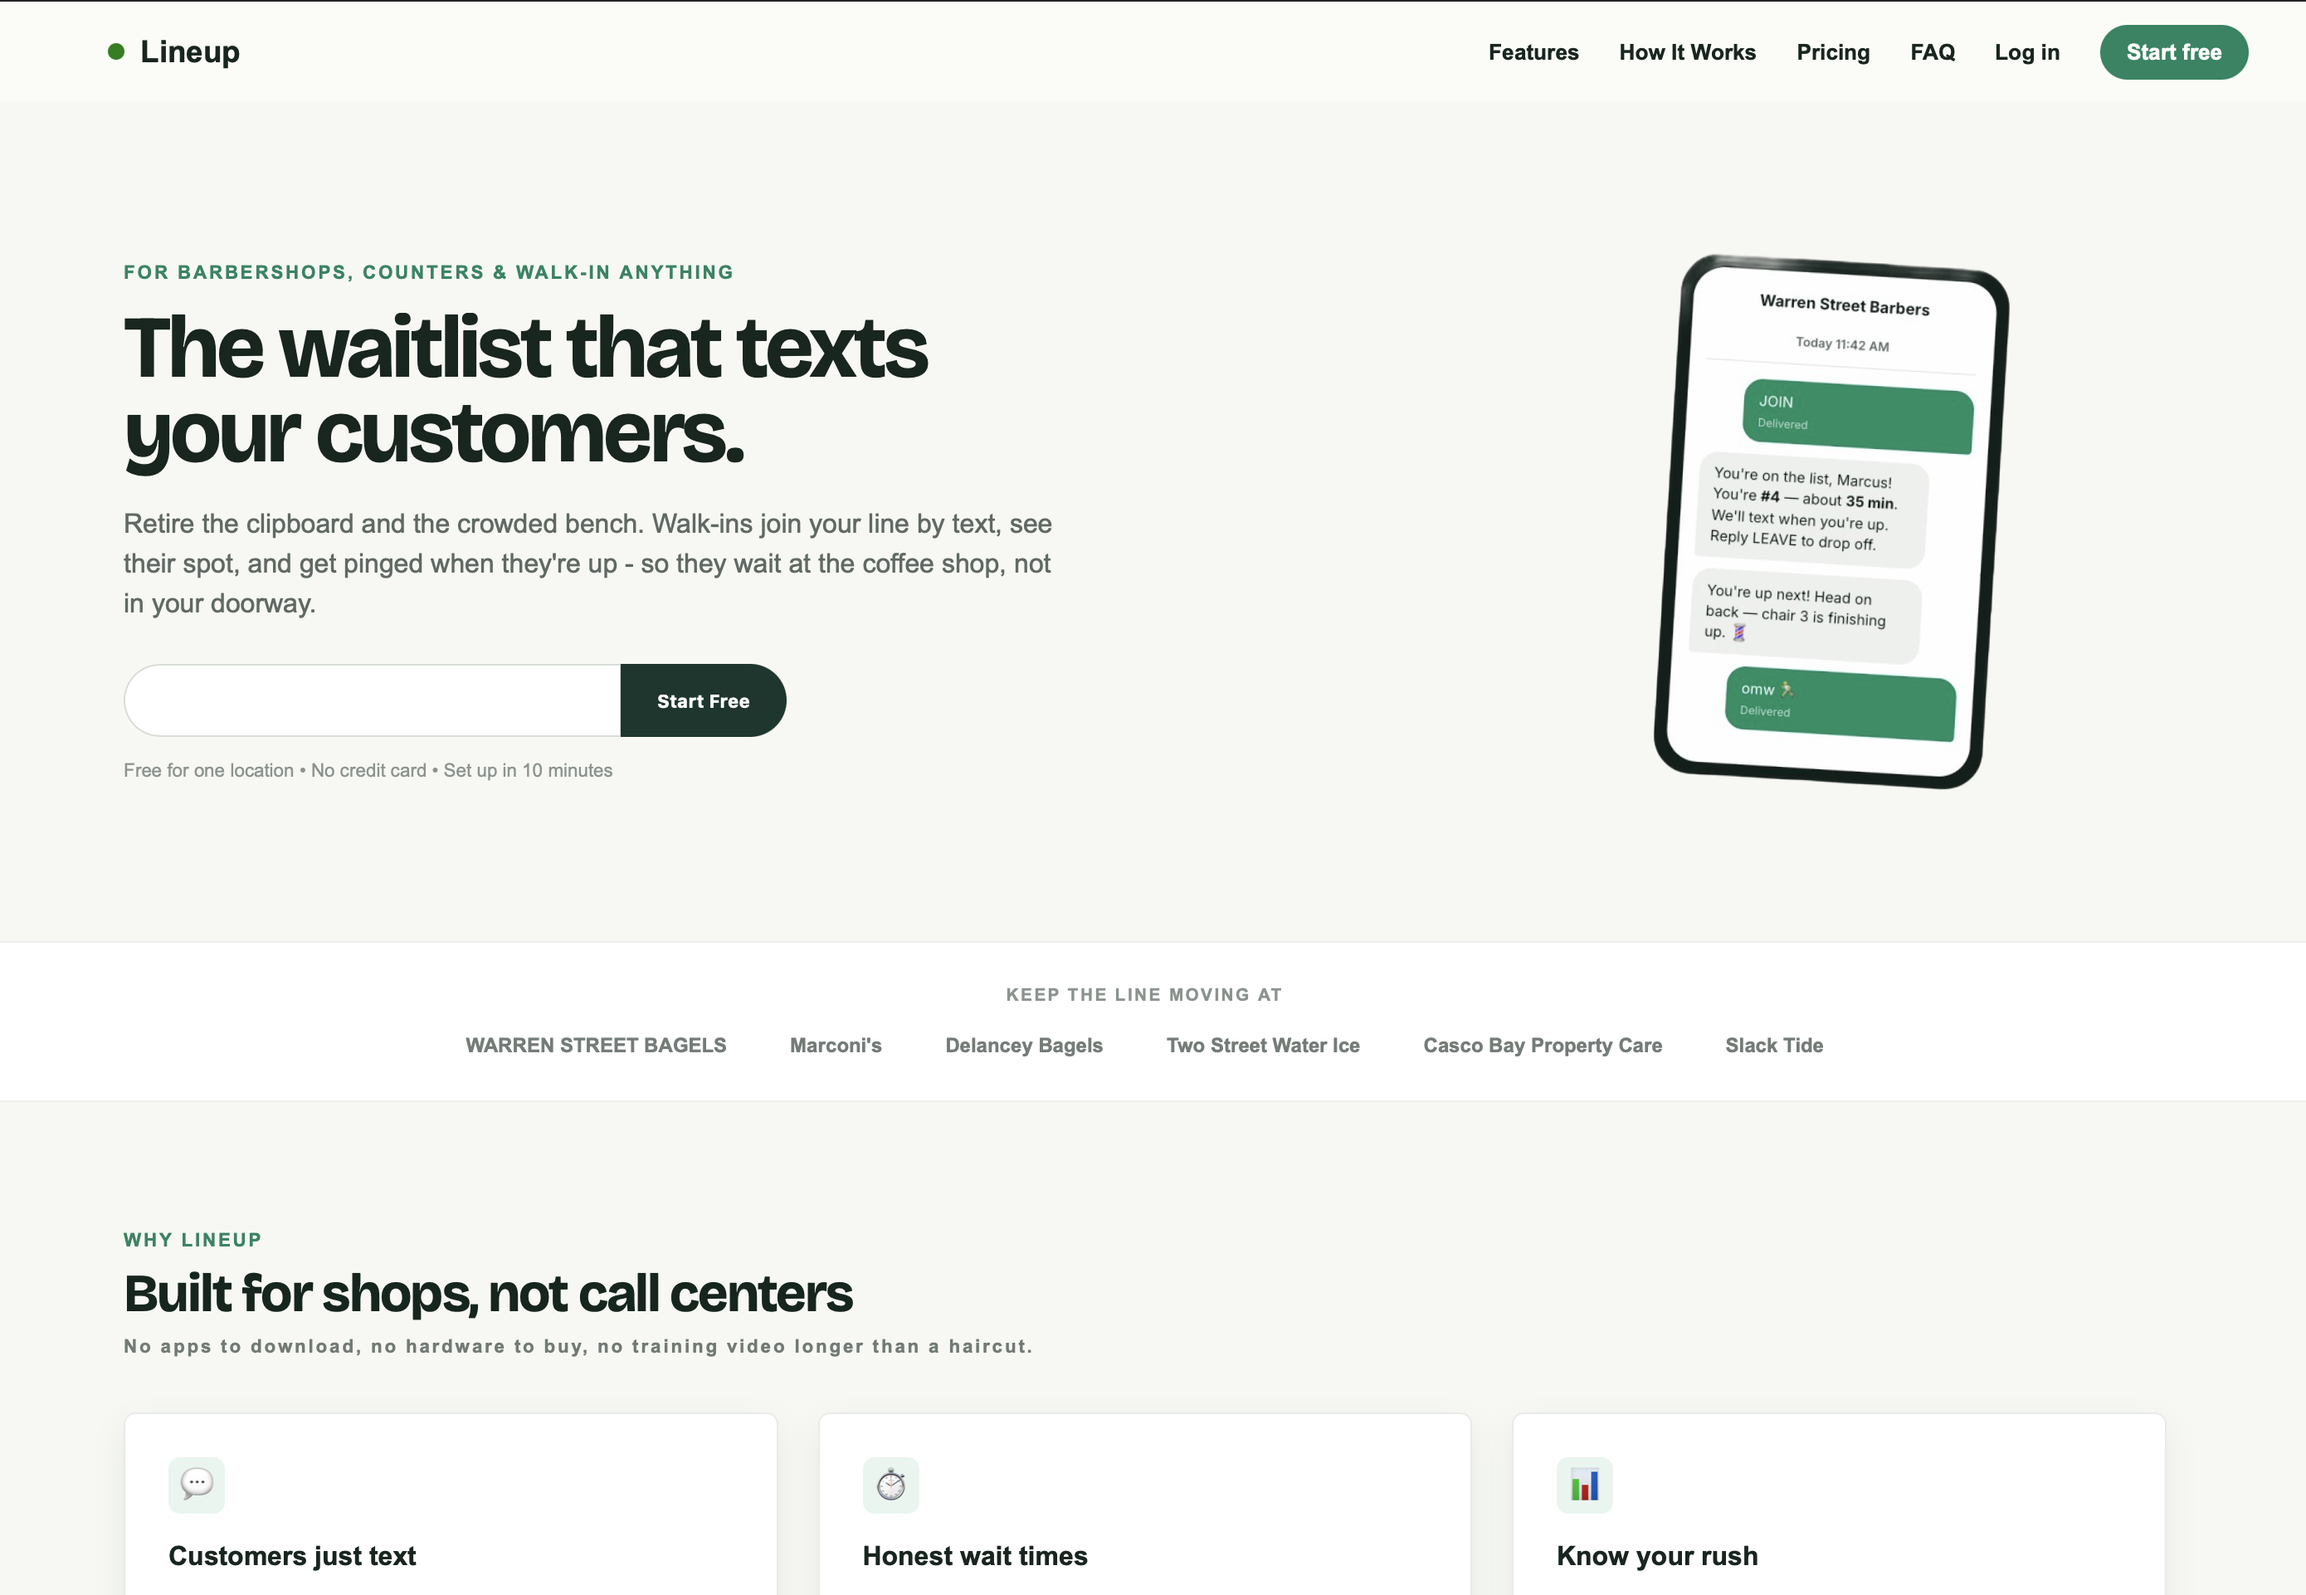
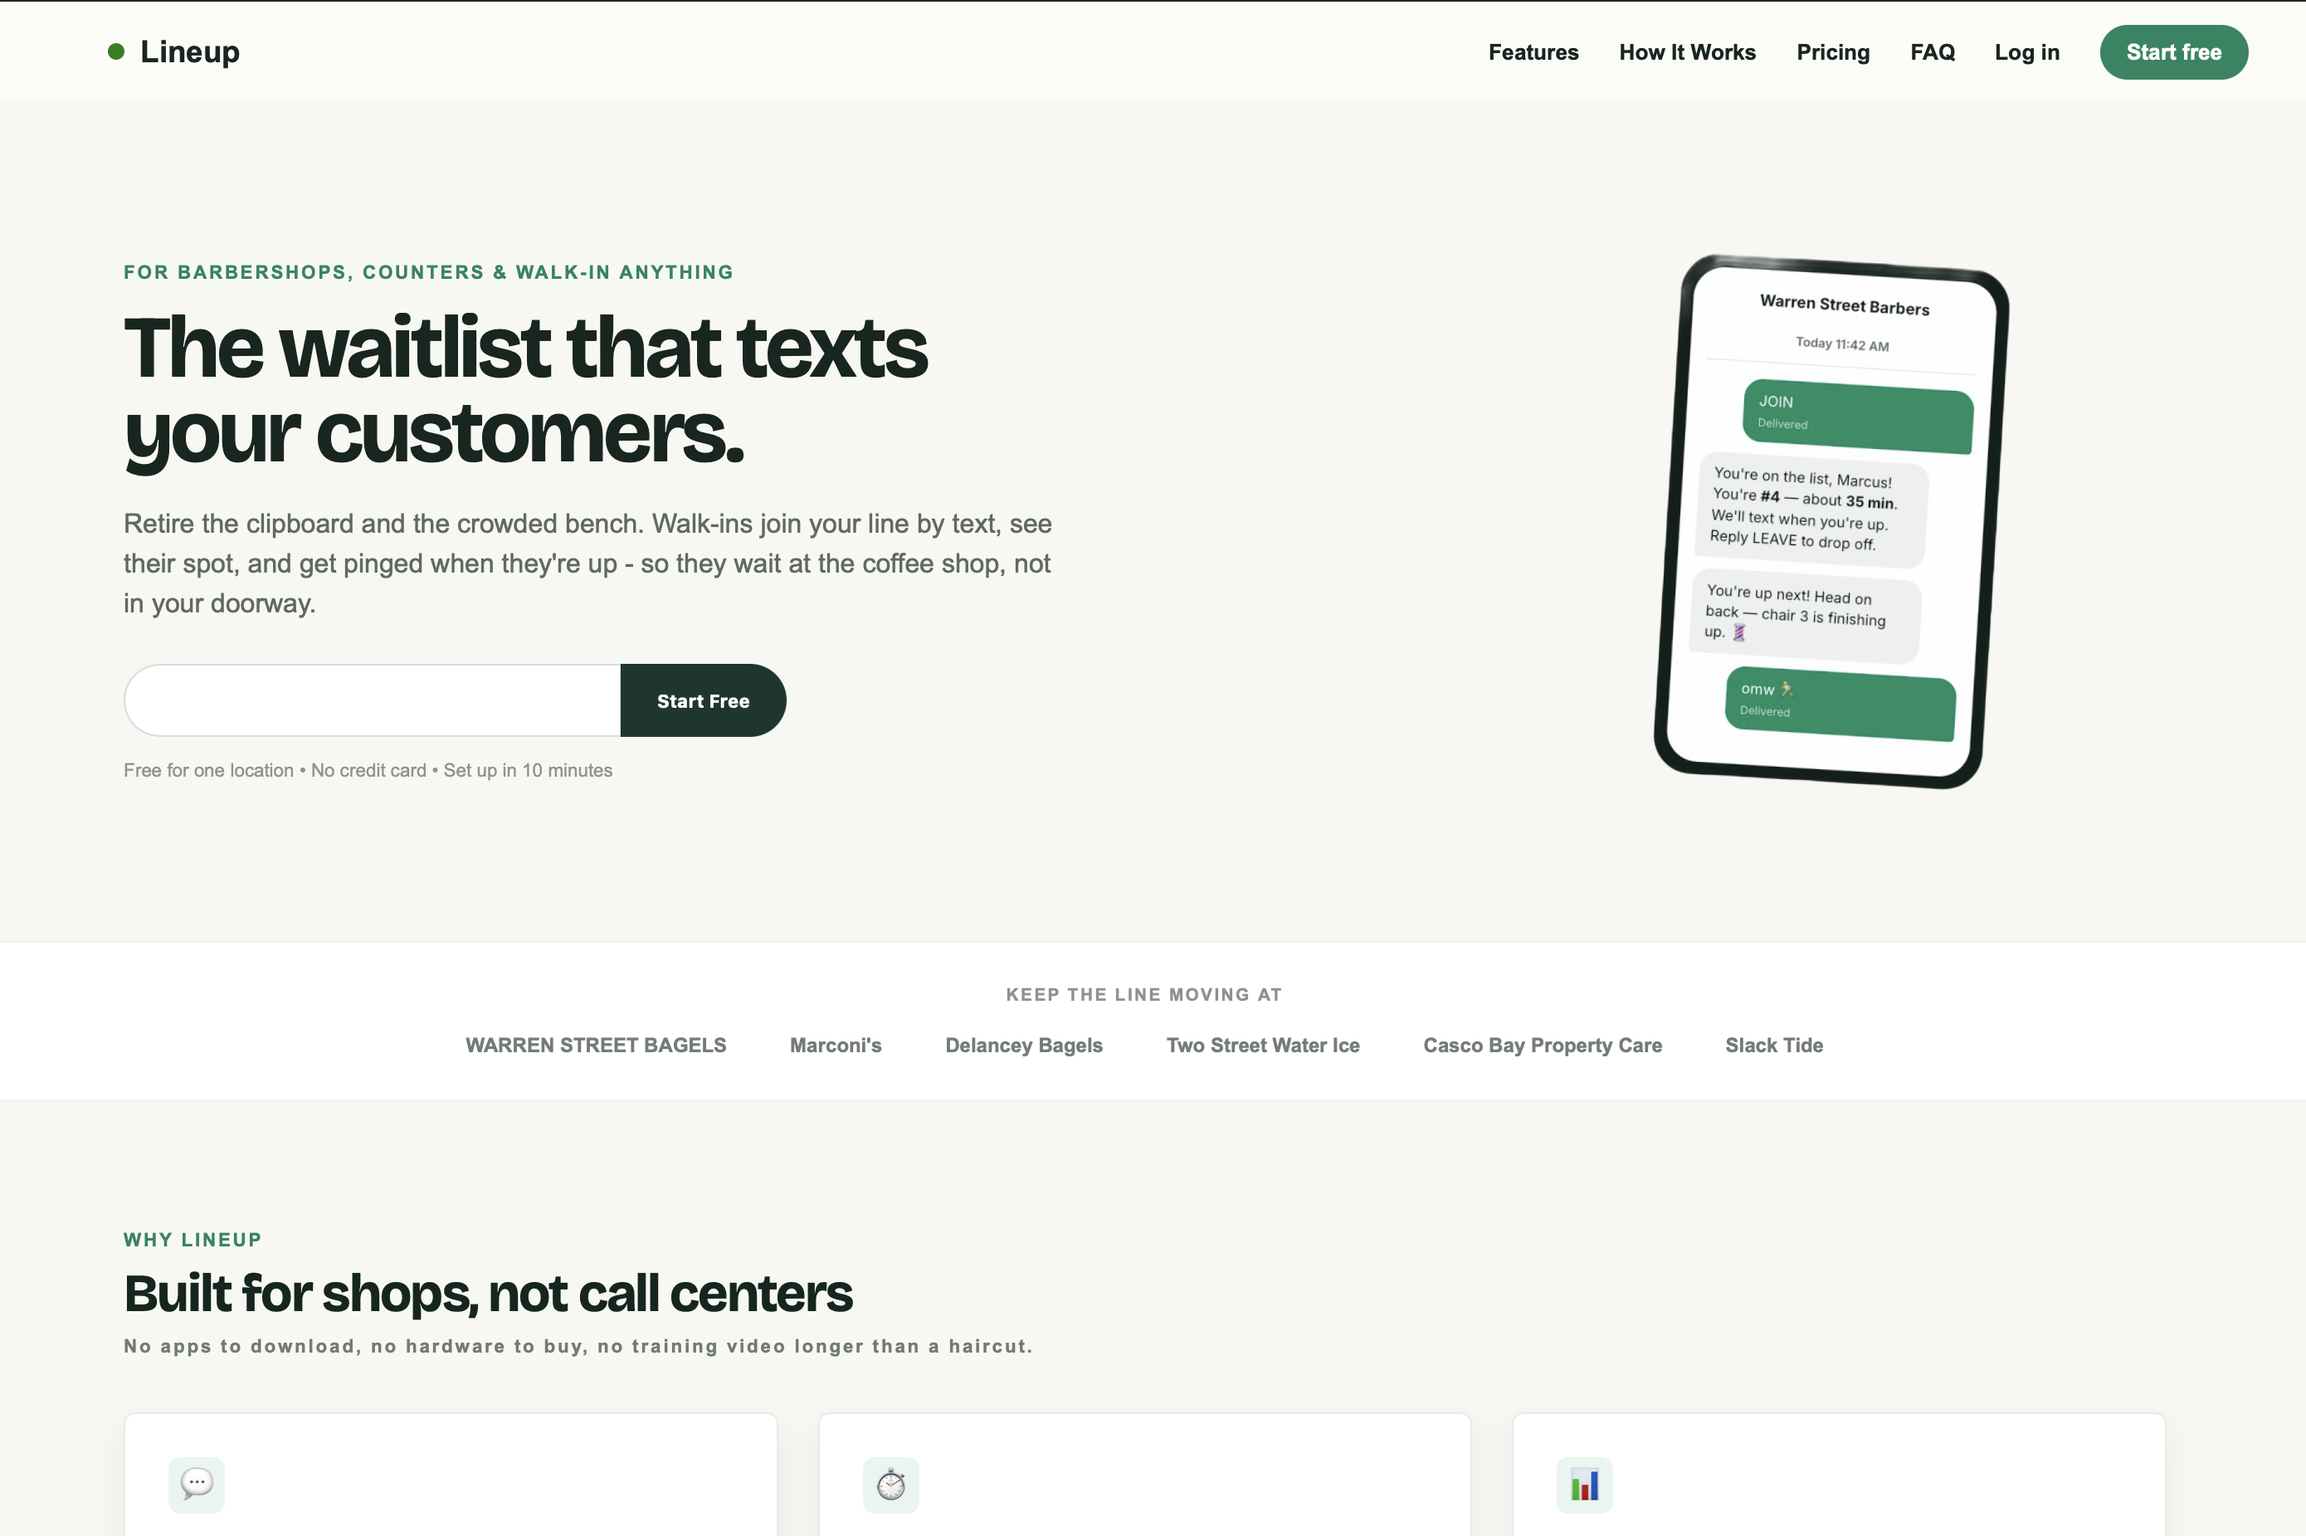
Updated bio, project screenshots

diff --git a/index.html b/index.html
@@ -32,8 +32,7 @@
 						<header class="major">
 							<h2>But first, introductions.</h2>
 						</header>
-						<p class="p-space">I'm a software engineer with a background in marketing, operations, and community-focused work. Throughout my professional journey, I've seen how thoughtful technology can bring people together, simplify the way we work, and turn ideas into something genuinely useful.</p>
-						<p class="p-space">That perspective is what drew me to software engineering. I enjoy building practical, human-centered products and am especially interested in the intersection of software, data, and people.</p>
+						<p class="p-space">I'm a software engineer with a background in marketing, operations, and community-focused work. I've seen how thoughtful technology can bring people together, simplify the way we work, and turn ideas into something genuinely useful. I enjoy building practical, human-centered products and am especially interested in the intersection of software, data, and people.</p>
 						<p class="p-space">As I continue growing as an engineer, I aim to build technology that help people work smarter, uncover new opportunities, and solve real-world problems.</p>
 						<ul class="actions">
 							<li><a href="#two" class="button">See My Work</a></li>
